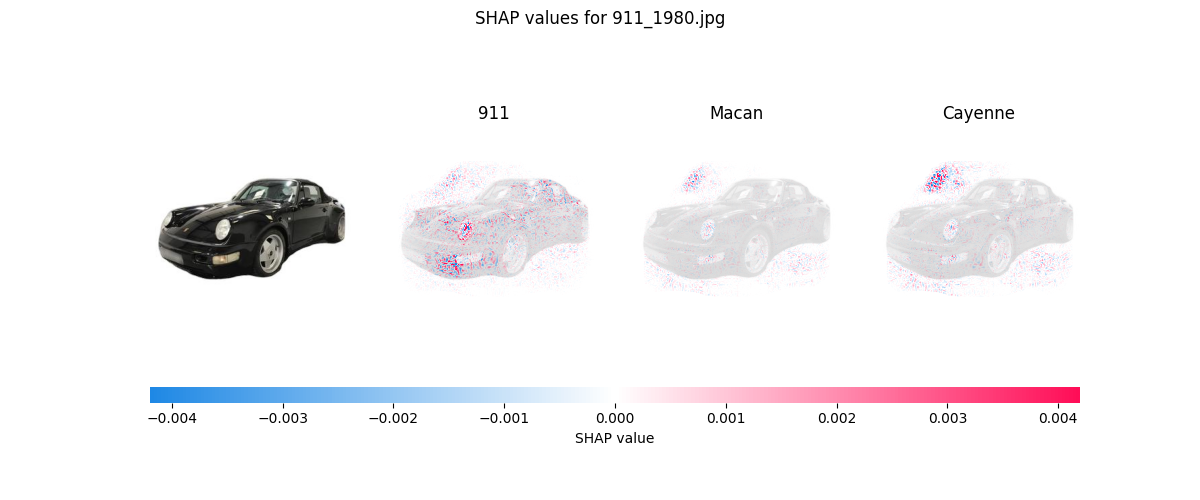
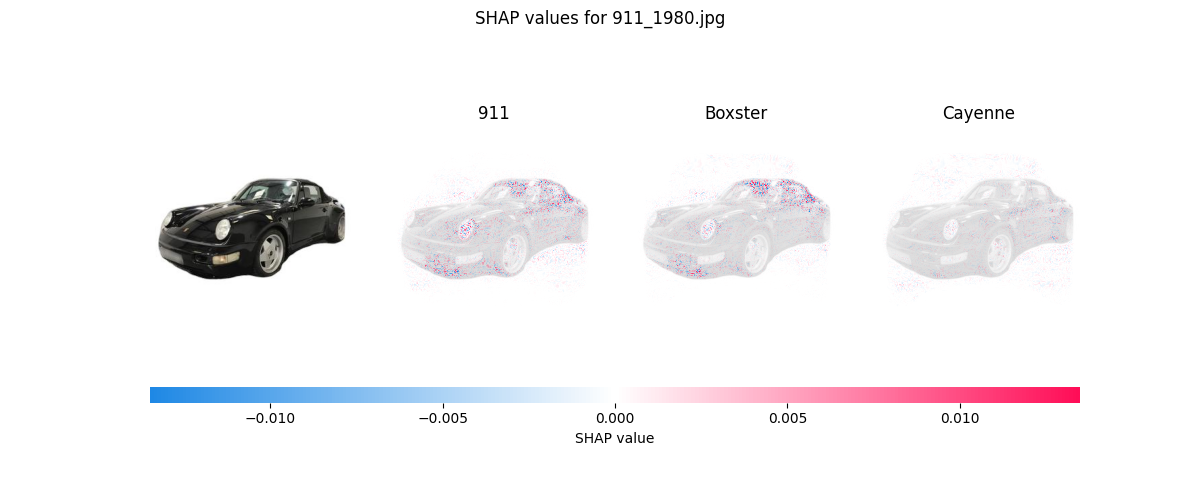
added new explainer and confusion matrix

diff --git a/model_insights/shap/explainer.py b/model_insights/shap/explainer.py
@@ -6,7 +6,7 @@ from utilities.class_names import get_classes_for_model
 suppress_tf_warnings()
 
 # Load model (Compiling failed, so I compiled it manually)
-model = keras.models.load_model("../../models/model_variants/best_model/efficientnet-model-variants_best_model.h5", compile=False)
+model = keras.models.load_model("../../models/car_types/efficientnet-car-type_best_model.h5", compile=False)
 # model = keras.models.load_model("../../models/car_types/best_model/vgg16-pretrained.h5", compile=False)
 model.compile(optimizer='adam',
               loss=tf.keras.losses.SparseCategoricalCrossentropy(from_logits=True),
@@ -14,9 +14,9 @@ model.compile(optimizer='adam',
 # Set config
 img_height = 300
 img_width = 300
-img_folder = '../../testing/test_images'
+img_folder = '../../predicting/test_images'
 # Set model Type to 'all_specific_model_variants' or 'car_type' or "specific_model_variants"
-model_type = 'specific_model_variants'
+model_type = 'car_type'
 path_addon = get_data_path_addon(model_type)
 classes = get_classes_for_model(model_type)
 

diff --git a/model_insights/confusion_matrix/confusion_matrix.py b/model_insights/confusion_matrix/confusion_matrix.py
@@ -6,9 +6,9 @@ from utilities.class_names import get_classes_for_model
 suppress_tf_warnings()
 
 # Set model Type to 'all_specific_model_variants' or 'car_type' or "specific_model_variants"
-model_type = 'specific_model_variants'
-saved_model_path = "../../models/model_variants/best_model/efficientnet-model-variants_best_model.h5"
-name = "efficientnet-model-variants"
+model_type = 'car_type'
+saved_model_path = "../../models/car_types/efficientnet-car-type-2_best_model.h5"
+name = "efficientnet-car-type-2"
 path_addon = get_data_path_addon(model_type)
 img_height = 300
 img_width = 300
@@ -26,7 +26,7 @@ model.compile(optimizer='adam',
               loss=tf.keras.losses.SparseCategoricalCrossentropy(from_logits=False),
               metrics=['accuracy'])
 # Load subset of data
-data = load_image_subset(**config, shuffle=10000, number_images=1024)
+data = load_image_subset(**config, shuffle=100, number_images=3024)
 
 # Extract images and labels from the dataset
 all_images = []
